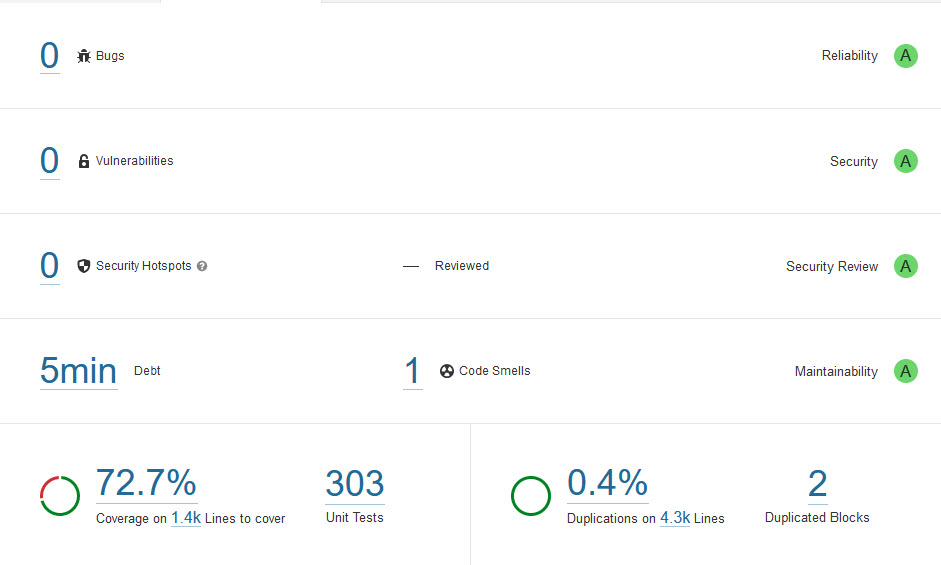
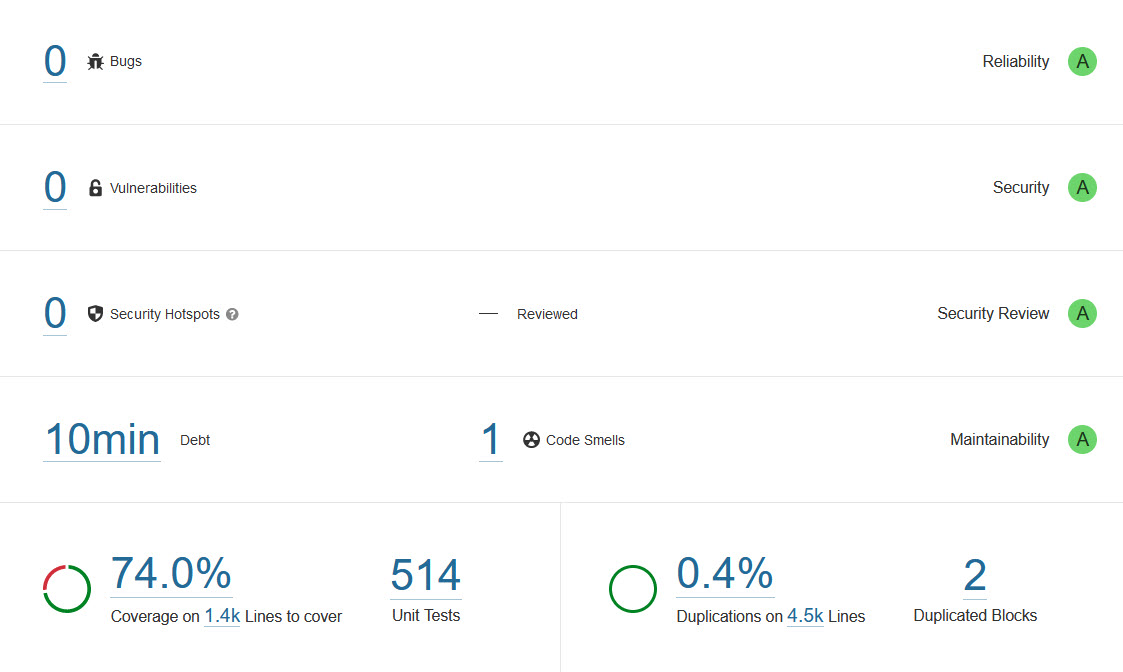
Update changelog

diff --git a/CHANGELOG.md b/CHANGELOG.md
@@ -1,5 +1,19 @@
 # Changelog
 
+## Release 1.3.1
+
+The following functionalities and improvements are included in release 1.3.1:
+
+* Improved the performance when converting Hexadecimals to BigIntegers.
+* Reduced the size of some payloads by switching the encoding from Base16 to Base64.
+* Enforced the number of small primes in the encryption parameters payload.
+* Moved the partialUUID validator into crypto-primitives domain.
+* Added the questionNumber, variantBallot and ballot identification field to the question object.
+* Changed the date format to local date time.
+* Updated dependencies and third-party libraries.
+
+---
+
 ## Release 1.3.0
 
 The following functionalities and improvements are included in release 1.3.0:

diff --git a/README.md b/README.md
@@ -22,11 +22,9 @@ We strive for excellent code quality to minimize the risk of bugs and vulnerabil
 ### SonarQube Analysis
 
 We parametrize SonarQube with the built-in Sonar way quality profile. The SonarQube analysis of the crypto-primitives-domain code reveals 0 bugs, 0
-vulnerabilities, 0 security hotspots, and 3 code smells.
+vulnerabilities, 0 security hotspots, and 1 code smell.
 
 ![SonarQube](SonarQube.jpg)
-
-The 2 code smells concern a deprecated duplicated blocks rule. We left the code blocks as is since removing them reduces the code's readability.
 
 ### Fortify Analysis
 
